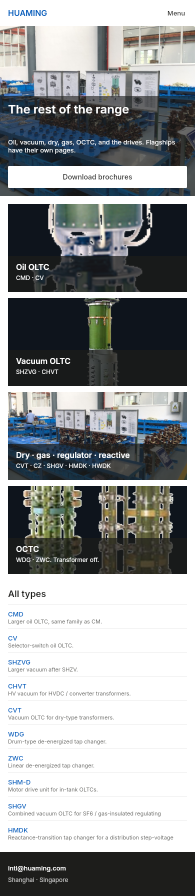
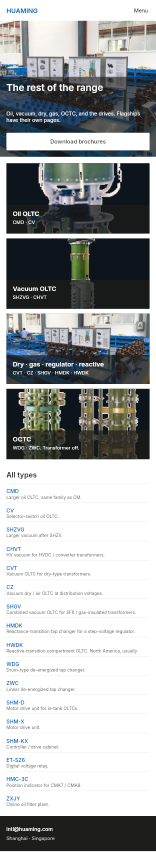
copy: More 390 All types matches desk
CZ, HWDK, SHM-X/KX, ET-SZ6, HMC-3C, ZXJY from json. Cycle-15: no must-fix.

diff --git a/docs/DRAFT-STATUS.md b/docs/DRAFT-STATUS.md
@@ -1,6 +1,6 @@
 # Huaming EN OpenPencil draft — morning handoff
 
-Updated: 2026-08-20 06:10 +08  
+Updated: 2026-08-20 06:32 +08  
 Hard stop: **2026-08-20 07:00 +08**
 
 Open `sketches/mr-openpencil-2026-08-19/huaming-mr-draft.fig` in OpenPencil. Branch `feat/overnight-v1`. Builder `build.mjs`. **Do not recode Next.js** until Eric says this draft is the spec.
@@ -27,7 +27,7 @@ Home, Products, Downloads, About, Contact, Projects, News, Careers, Learn, CV2, 
 - CMA7 cabinet is grey paint. That is the product.
 - WSL WDG / ZWC and CMA7 SHM-D / SHM-X are empty dark bands. No still on disk.
 
-Queue **done** (slices 0–22). Scheduler may still fire until 07:00.
+Queue **done** (slices 0–23). Scheduler may still fire until 07:00.
 
 ## Reviews
 
@@ -45,6 +45,7 @@ Queue **done** (slices 0–22). Scheduler may still fire until 07:00.
 - Cycle 12: About desk matches 390 (teasers then numbers). Contact desk teasers are photoTeaser. No must-fix.
 - Cycle 13: Downloads desk kind tiles are photoTeaser 428×240. No must-fix.
 - Cycle 14: Downloads 390 kind tiles are mTeaser. No must-fix.
+- Cycle 15: More 390 All types matches desk names from json. No must-fix.
 
 ## Slice 8 (03:03)
 
@@ -105,6 +106,10 @@ Downloads 390 kind tiles are mTeaser (same stack as desk photoTeaser). File list
 ## Slice 22 (06:10)
 
 About desk + 390 numbers both `C.ink`. Morning brief at the top of this file.
+
+## Slice 23 (06:32)
+
+More 390 All types adds CZ, HWDK, SHM-X / SHM-KX, ET-SZ6, HMC-3C, ZXJY (json one-liners). Cycle-15 no must-fix.
 
 ## Still open (not blocking the draft)
 

diff --git a/sketches/mr-openpencil-2026-08-19/LOOP.md b/sketches/mr-openpencil-2026-08-19/LOOP.md
@@ -59,9 +59,9 @@ Refuse: MR red, MR mark, MR sentences, cream paper, serif kickers.
 | 18 | About desk + Contact teasers | done 2026-08-20 05:08. About desk HQ teasers then ink numbers. Contact desk photoTeaser 428×240. Cycle-12 no must-fix. |
 | 19 | Downloads photoTeaser | done 2026-08-20 05:46. Desk kind tiles 428×240. Cycle-13 no must-fix. |
 | 20 | Address nits + More 390 | done 2026-08-20 05:52. News Singapore body TSX Tower A #03-13. Contact office line has 29 April 2025. More 390 adds SHGV / HMDK from json. |
-| 21 | Downloads 390 mTeaser | done 2026-08-20 06:03. Cycle-14 no must-fix. |
-| 22 | About numbers ink + handoff | done 2026-08-20 06:10. Desk + 390 numbers `C.ink`. DRAFT-STATUS morning brief. |
 | 21 | Downloads 390 mTeaser | done 2026-08-20 06:03. Kind tiles match desk photoTeaser. Cycle-14 no must-fix. |
+| 22 | About numbers ink + handoff | done 2026-08-20 06:10. Desk + 390 numbers `C.ink`. DRAFT-STATUS morning brief. |
+| 23 | More 390 list = desk | done 2026-08-20 06:32. Adds CZ, HWDK, SHM-X / KX, ET-SZ6, HMC-3C, ZXJY. Cycle-15 no must-fix. |
 
 ## Do not
 

diff --git a/sketches/mr-openpencil-2026-08-19/reviews/cycle-15-copy.md b/sketches/mr-openpencil-2026-08-19/reviews/cycle-15-copy.md
@@ -1,0 +1,21 @@
+# Cycle 15 — copy
+
+More 390 All types vs `products.json` / desk moreGroups.
+
+## Must-fix
+
+None.
+
+## Leave
+
+Stage: The rest of the range. Oil, vacuum, dry, gas, OCTC, and the drives. CTA Download brochures.
+
+Tiles: Oil OLTC CMD · CV. Vacuum OLTC SHZVG · CHVT. Dry · gas · regulator · reactive CVT · CZ · SHGV · HMDK · HWDK. OCTC WDG · ZWC. Transformer off.
+
+List one-liners from json: CMD, CV, SHZVG, CHVT, CVT, CZ, SHGV, HMDK, HWDK, WDG, ZWC, SHM-D, SHM-X, SHM-KX, ET-SZ6, HMC-3C, ZXJY. CMA7 stays on its own page. Flagships CV2 / CM2 / SHZV / HWV / WSL not repeated here.
+
+CHVT is HVDC / converter, not an Um. HWDK is reactive compartment, not vacuum. SHM-* and ET-SZ6 / HMC-3C are drives / accessories. ZXJY is oil filter, not a tap changer.
+
+## Nit
+
+SHZVG 390 drops the 1300 / 1500 A III that desk prints (json). Fine for 390.

diff --git a/sketches/mr-openpencil-2026-08-19/reviews/cycle-15-ux.md b/sketches/mr-openpencil-2026-08-19/reviews/cycle-15-ux.md
@@ -1,0 +1,19 @@
+# Cycle 15 — UX
+
+Vs LOOP lock: chrome → stage → photo teasers → list last. More 390 All types was still a stub vs desk.
+
+Read: `preview-more-mobile.png`. Tokens: white / ink / `#0057B8`. No cream. No MR red.
+
+## Must-fix
+
+None. Stage, type BL, one CTA. 4 family photo tiles, then All types. List after teasers. No polaroid. No white + H1 + table.
+
+## Should-fix
+
+1. More 390 family tiles are still `mPhotoCard` (176h). Other 390s that got the desk photoTeaser pass use `mTeaser`.
+
+## Pass / fail vs MR
+
+| Page | Verdict | Why |
+|------|---------|-----|
+| More 390 | **Pass** | Factory stage, type BL, one CTA. 2×2-as-stack photo tiles, compact rows last. List now matches desk names. |

diff --git a/sketches/mr-openpencil-2026-08-19/reviews/cycle-15-industrial.md b/sketches/mr-openpencil-2026-08-19/reviews/cycle-15-industrial.md
@@ -1,0 +1,13 @@
+# Cycle 15 — industrial
+
+More 390 vs `products.json`.
+
+## Must-fix
+
+None.
+
+No CV2-500. No CM2 III 800/1000. No HWV-600. SHZVG is larger vacuum after SHZV, not a current on this 390 line. CHVT is converter / HVDC, Longdong is a project fact. CZ is dry / air. SHGV is gas. HMDK is a regulator. HWDK is reactive compartment, usually secondary. WDG drum / ZWC linear are OCTC, transformer off. SHM-D / SHM-X / SHM-KX are MDU / controller, not tap changers. ZXJY is oil filter.
+
+## Leave
+
+Family split matches desk. CMA7 not on this list (own PDP; do not add twice on HWV). Flagships stay on Products / PDPs.
